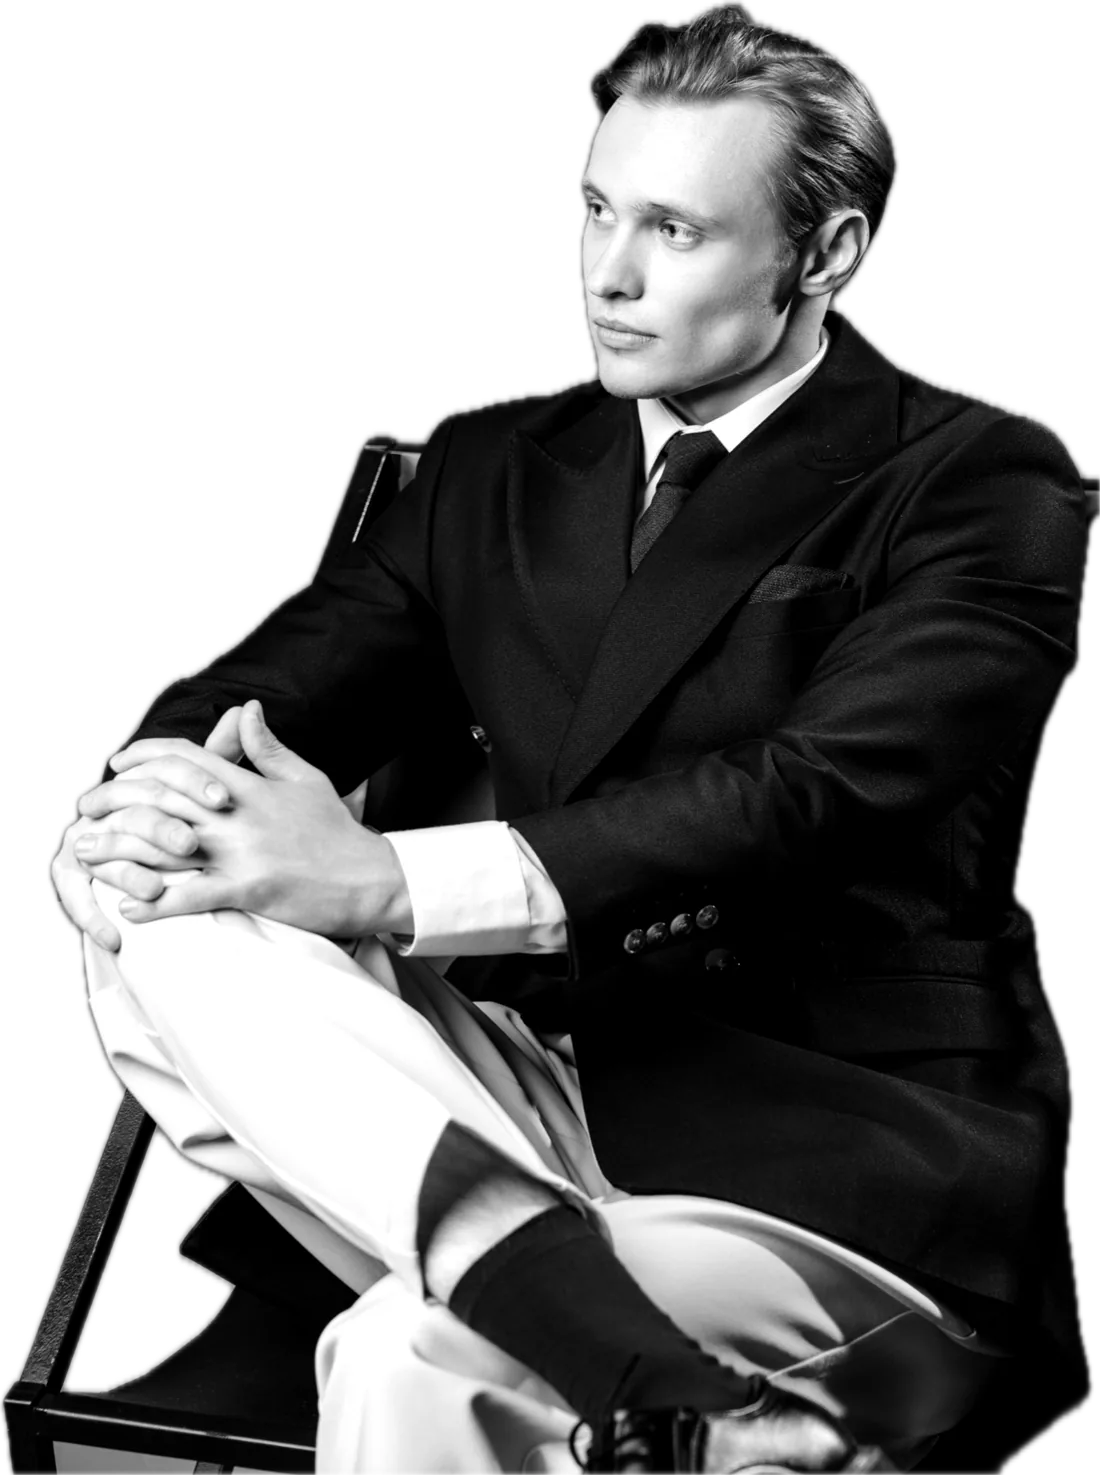
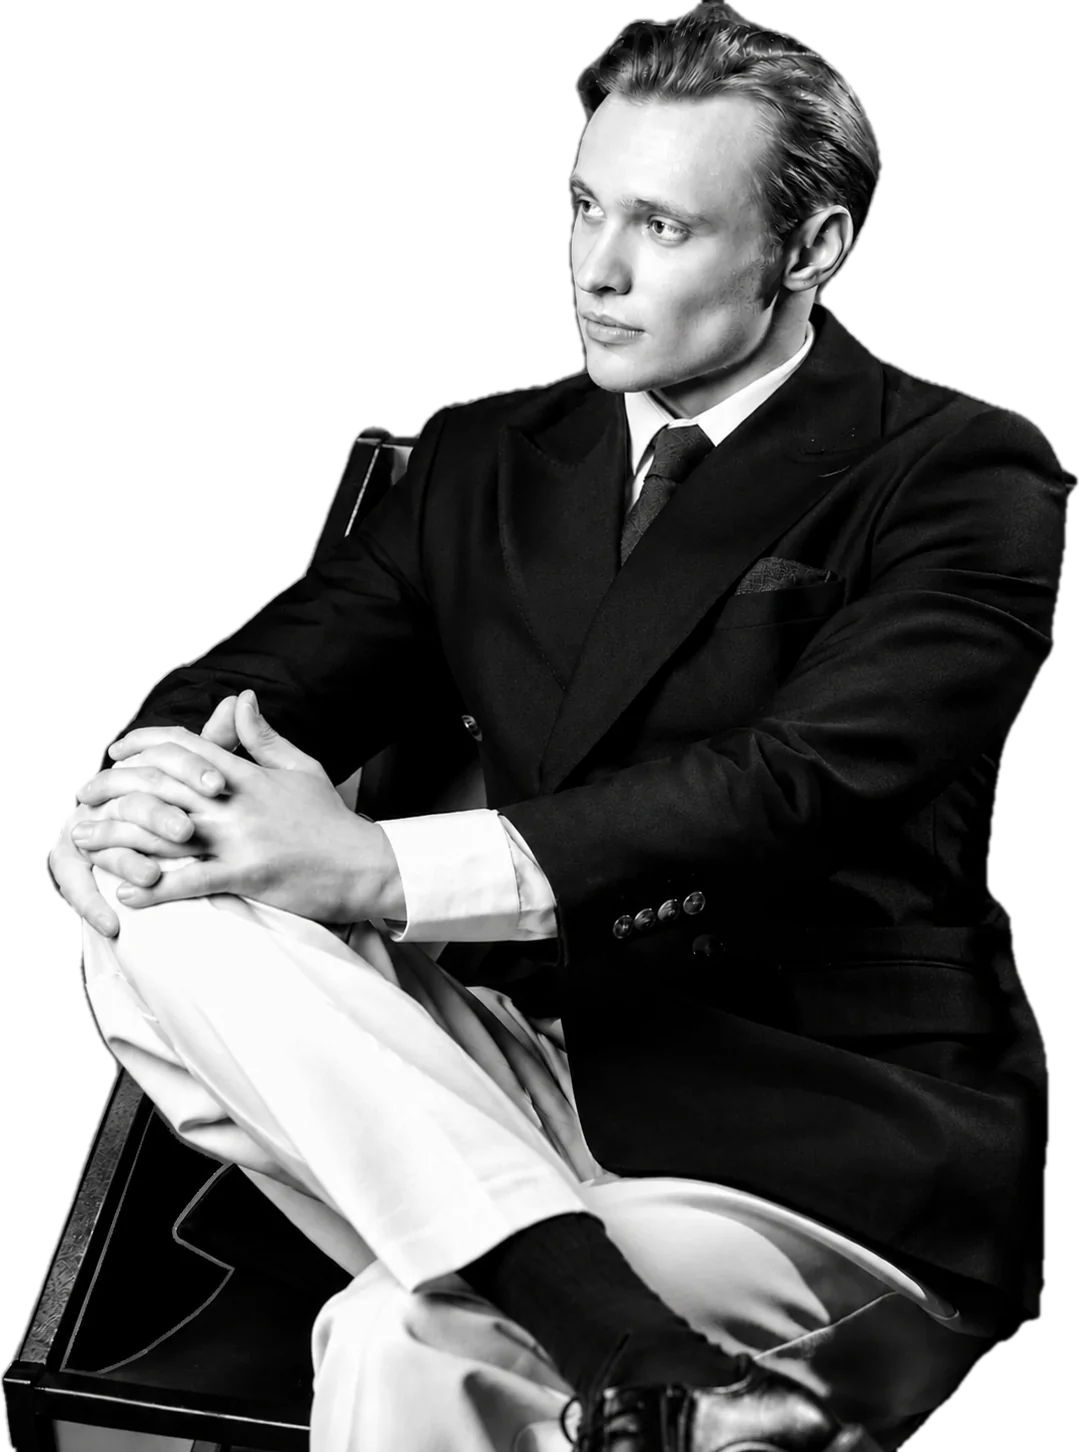
Новое фото на первом экране и в превью ссылки

diff --git a/README.md b/README.md
@@ -2,4 +2,4 @@
 
 Сайт: https://88mayak88.github.io/mayak-site/
 
-Версия 2.3. Собирается из прототипа скриптом build-deploy.py (SEO-заголовок, Schema.org, sitemap).
+Версия 2.4. Собирается из прототипа скриптом build-deploy.py (SEO-заголовок, Schema.org, sitemap).
